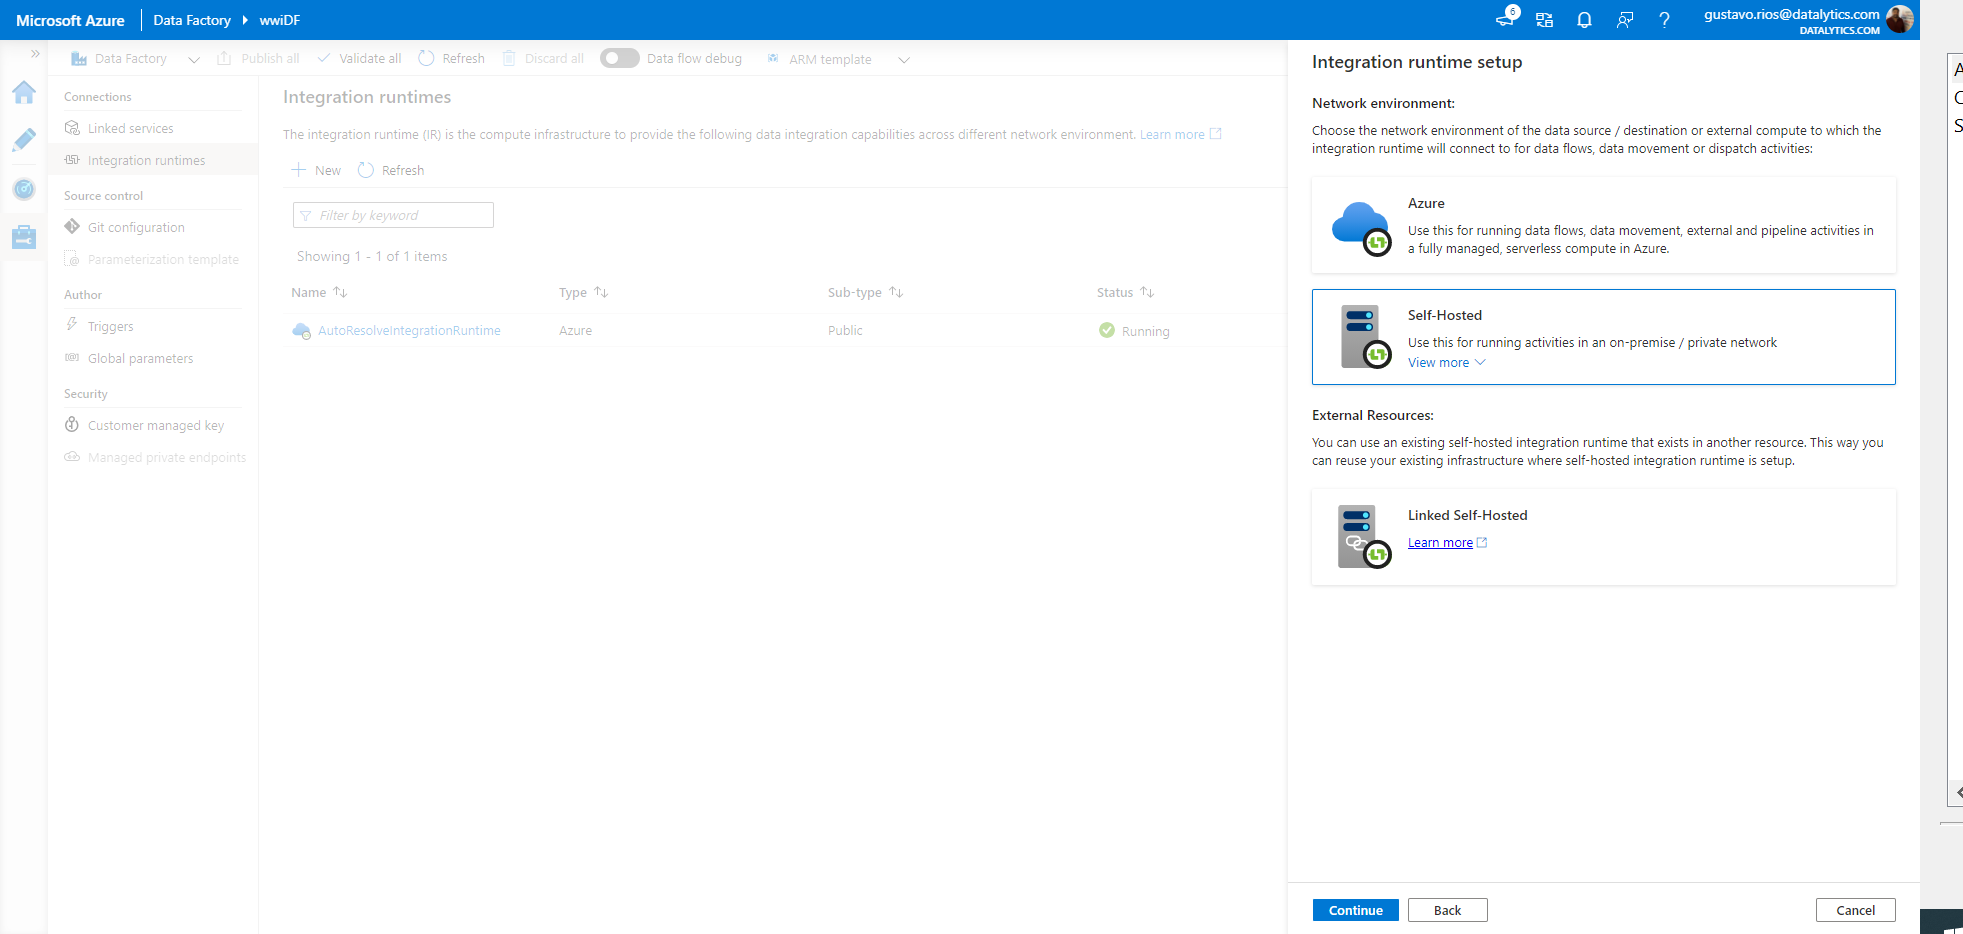
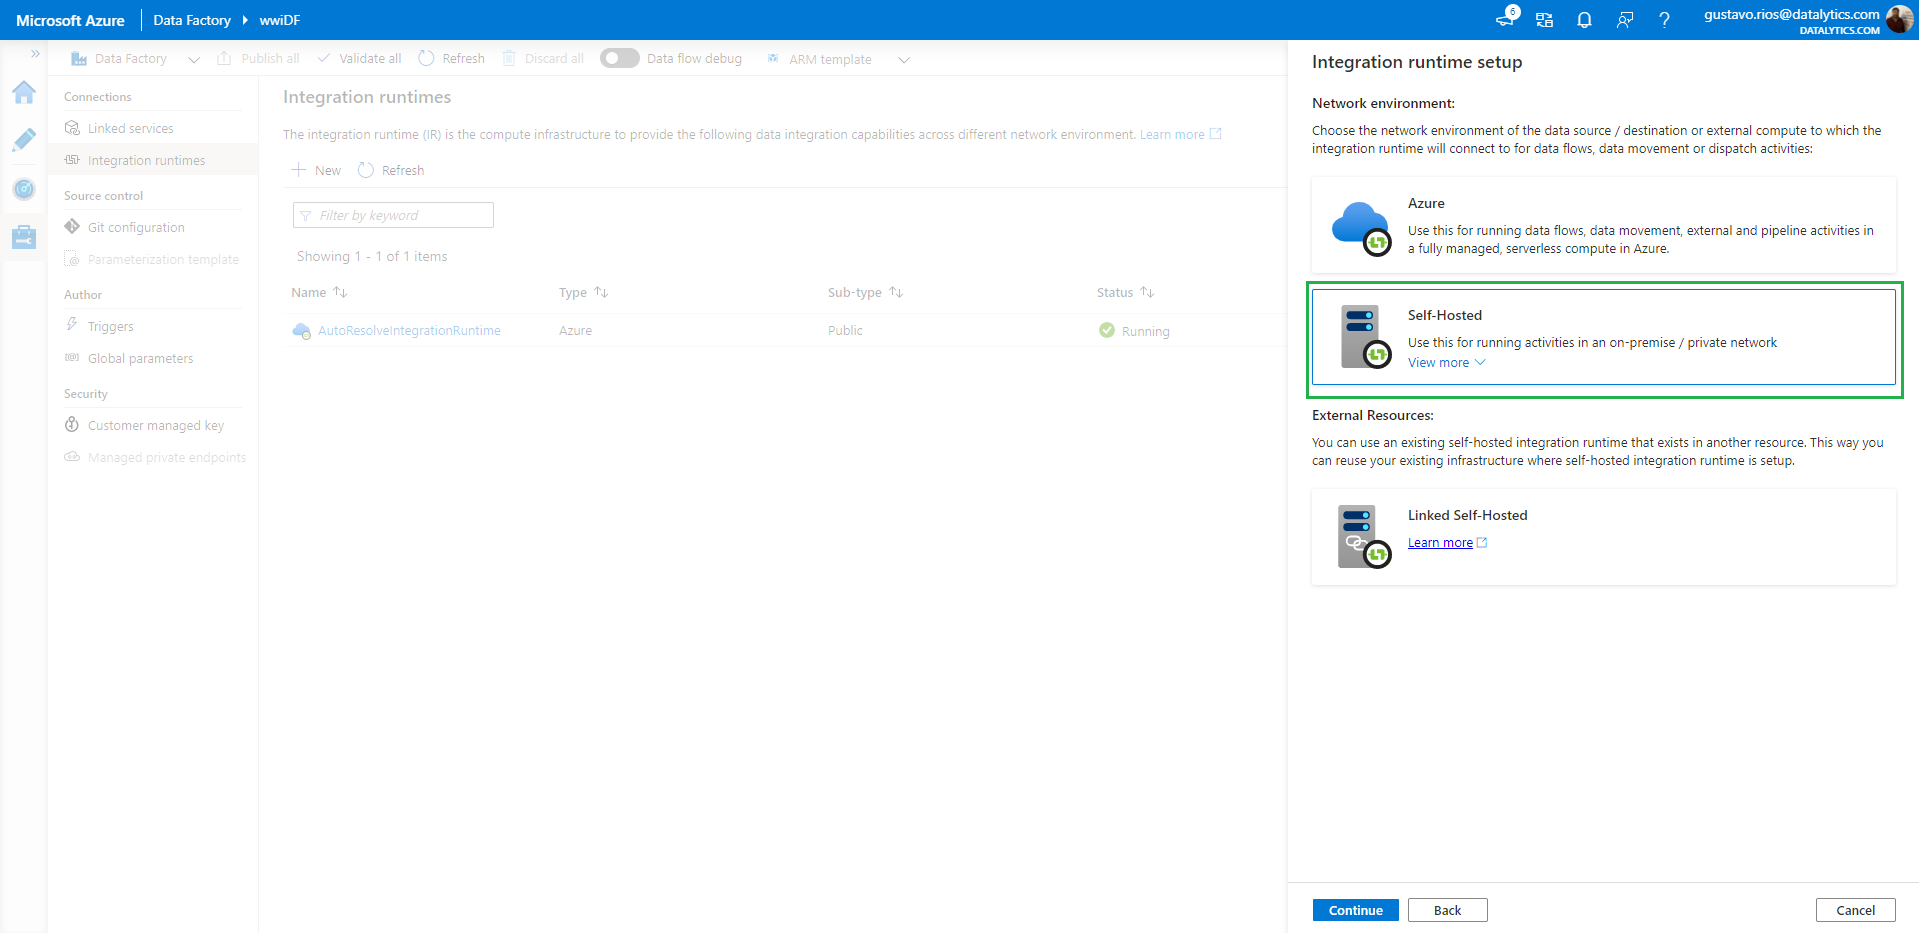
ActualizacionReadme

diff --git a/README.md b/README.md
@@ -19,18 +19,46 @@ A continuación se detallan los pasos a realizar:
         5. Replication: _LRS_
      2. Advanced
         1. Data Lake Storage Gen2: _Enabled_
+	
+	<img src="images/DL_01.png"/><br/>
+	
+	<img src="images/DL_02.png"/><br/>
+	
+	<img src="images/DL_03.png"/><br/>
         
 3. Crear el servicio Data Factory (_Create a resourse -> Data Factory_)
     1. Basics
         1. Region: _(US) East US 2_
         2. Name: _wwwDF_
         3. Version: _V2_
-    2. Git Configuration
+		
+		<img src="images/DF_01.png"/><br/>
+    
+	2. Git Configuration
         1. Habilitar _Configure Git later_
+		
+		<img src="images/DF_02.png"/><br/>
+		
+		<img src="images/DF_03.png"/><br/>
         
 4. Ahora vamos a crear y configurar un Integration Runtime 
     1. Ir a la interfaz de Data Factory (_Data Factory -> Author & Monitor_)
+	
+	<img src="images/DF_04.png"/><br/>
+	
     2. En la sección _Manage -> Integration Runtime_ crear un nuevo _Azure, Self-Hosted_
+	
+		<img src="images/DF_05.png"/><br/>
+		
     3. Seleccionar _Self-Hosted_
+	
+		<img src="images/DF_06.png"/><br/>
+		
     4. Asignarle un nombre (por ejemplo _IR-OnPremise_) y crearlo
+	
+		<img src="images/DF_07.png"/><br/>
+		
     5. Descargar el agente de Integration Runtime, opción 1 **Express setup**
+	
+		<img src="images/DF_08.png"/><br/>
+	
